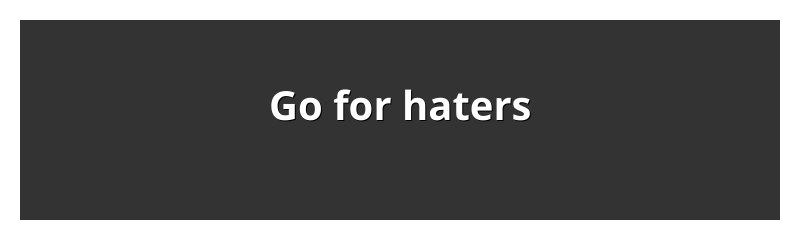
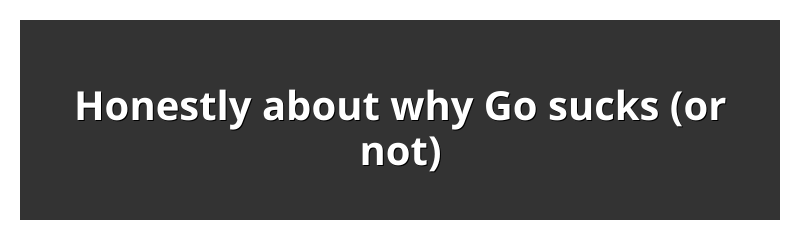
CR fixes and replacing featured img

Changed region(s): [[0.0938, 0.35, 0.9062, 0.5542], [0.4375, 0.5542, 0.5625, 0.7292]]

diff --git a/content/post/hate-go/index.md b/content/post/hate-go/index.md
@@ -154,7 +154,7 @@ To sum up, in Go we don't have function overloading or default arguments but I d
 
 We have generics since [1.18](https://go.dev/blog/go1.18). Until then, the argument was valid. I didn't feel the need for generics myself but it looks like there's a huge number of people that needed that.
 
-To be fair, before the 1.18 release we did have generics in Go. One example is the method `make()`. The problem is that we couldn't create our generic functions or types. Because of that, to make our code generic we had to use `interface{}` and validate the type in runtime. As you may guess, it can lead to some mistakes that lead to a runtime panic. A good example of such a function is [map/reduce and filter](https://www.reddit.com/r/golang/comments/1m25a1/map_reduce_and_filter_in_go/) operations.
+To be fair, before the 1.18 release we did have generics in Go. One example is the method `make()`. The problem is that we couldn't create our own generic functions or types. Because of that, to make our code generic we had to use `interface{}` and validate the type in runtime. As you may guess, it can lead to some mistakes that lead to a runtime panic. A good example of such a function is [map/reduce and filter](https://www.reddit.com/r/golang/comments/1m25a1/map_reduce_and_filter_in_go/) operations.
 
 It's not the case anymore. Of course, we have to wait sometime to have [libraries](https://pkg.go.dev/golang.org/x/exp/slices) in the standard library but it's now just a matter of time. 
 
@@ -219,7 +219,7 @@ func main() {
 Both `os.File` and `os.Stdin` implements `io.Reader` interface so we can use this to make the code shorter.
 We reduced the number of lines from 44 to 30. That's not that bad. The biggest difference between Go's code and the one in `D` is how the `if` statement looks like and how both languages handle errors. Is Go's version less readable than the one in `D`? I'm biased so you tell me.
 
-**No judment**
+**No judgment**
 
 ### Lack of stack traces in the errors
 
@@ -298,6 +298,7 @@ Do you think this problem doesn't happen in real-world apps? I produced a bug li
 If your function accepts an interface you cannot be 100% sure if there isn't a `nil`. Adding the `nil` checks in every method sounds crazy. You can find many places where we throw a panic in such cases in the [stdlib](https://cs.opensource.google/go/go/+/refs/tags/go1.18.4:src/context/context.go;l=435).
 
 Rust, on the other hand, checks situations like that at compile time. It means if you're not making some crazy things you should be free from mistakes like the one above.
+
 **Confirmed**
 
 ### Go isn't OOP
@@ -312,7 +313,6 @@ Here are some articles for further reading:
 The answer to the question can be only one:
 
 **Declined**
-
 
 ### Error handling
 
@@ -364,8 +364,10 @@ runtime.goexit()
 
 Oh the other hand, it's very difficult to keep writing good comments for errors. You have to add it in every place that makes sense. Maybe probably everywhere? It's challenging to keep the discipline to do it right. It's getting harder when you want to be consistent across the team.
 
+**Confirmed**
+
 ## Summary
-Golang is far from being perfect. It has some pros and cons. I use it in everyday job and it works for me. There are some areas where Go won't be a good fit in some type of projects. That's why we have Rust, TypeScript, Python, Lua and more.
+Go is far from being perfect. It has some pros and cons. I use it in everyday job and it works for me. There are some areas where Go won't be a good fit in some type of projects. That's why we have Rust, TypeScript, Python, Lua and more.
 
 There are so many choices so if you don't like Go's philosophy, the syntax or anything else - there's so many other options you can choose. Please remember that the grass is always greener on the other side of the fence.
 
